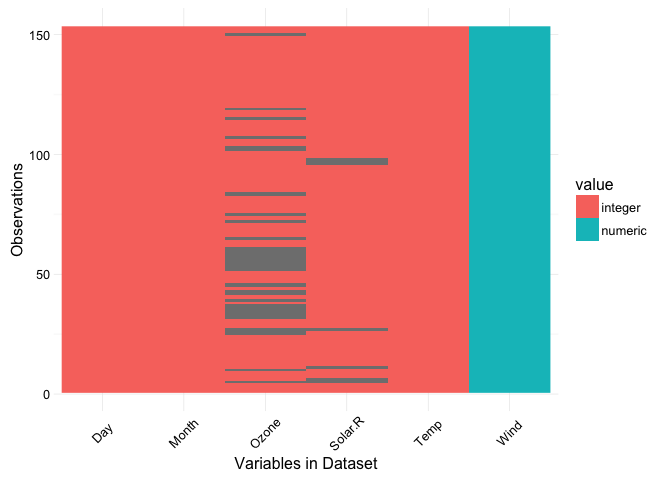
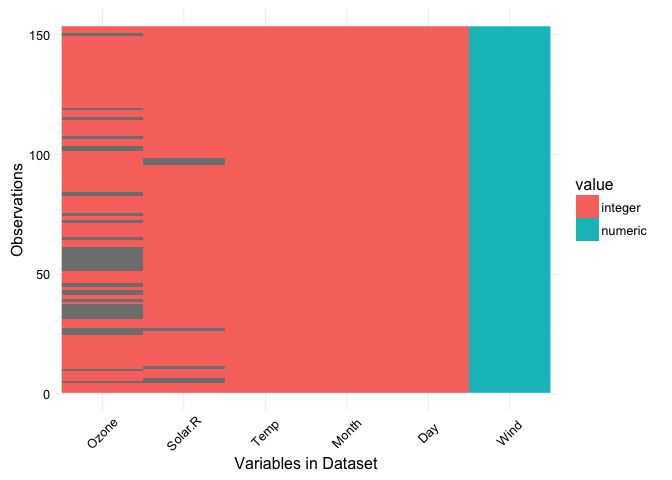
changed sort_cols to sort_miss

diff --git a/README.md b/README.md
@@ -69,13 +69,13 @@ vis_miss(airquality)
 
 ![](README-vis_miss-1.png)
 
-You can further cluster the missingness and arrange the columns by missingness by setting `cluster = TRUE` and `sort_cols = TRUE`.
+You can further cluster the missingness and arrange the columns by missingness by setting `cluster = TRUE` and `sort_miss = TRUE`.
 
 ``` r
 
 vis_miss(airquality, 
          cluster = TRUE,
-         sort_cols = TRUE)
+         sort_miss = TRUE)
 ```
 
 ![](README-vis_miss-cluster-1.png)
